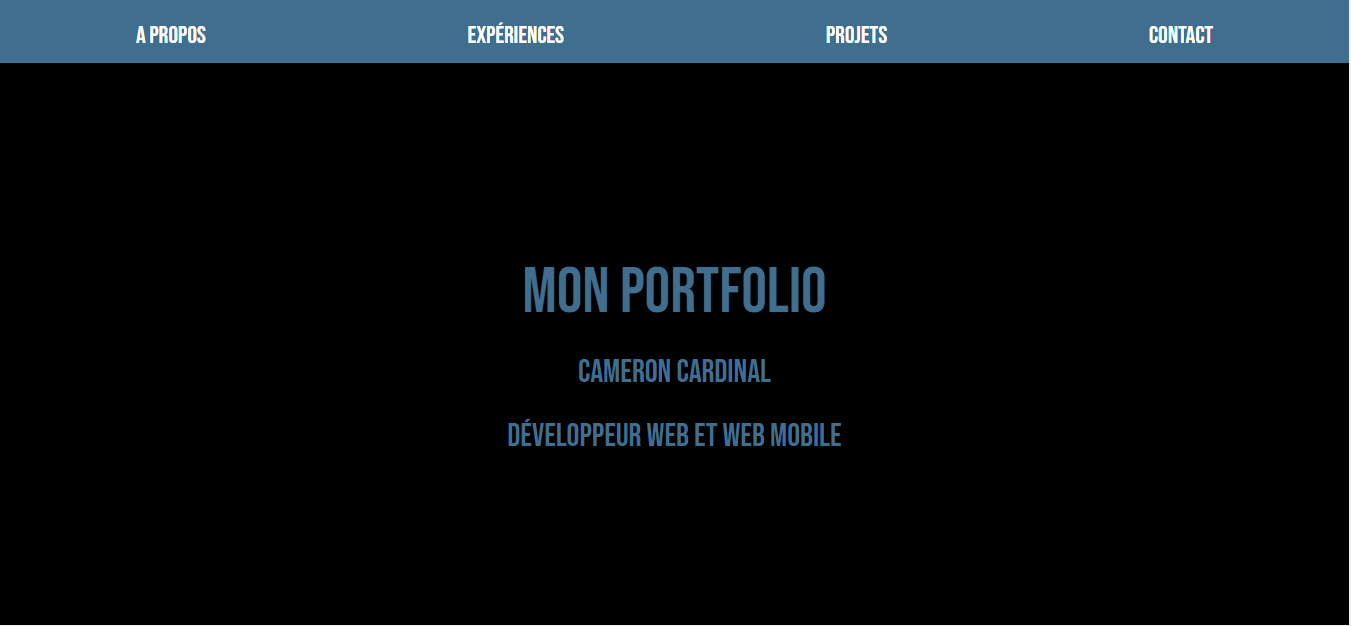
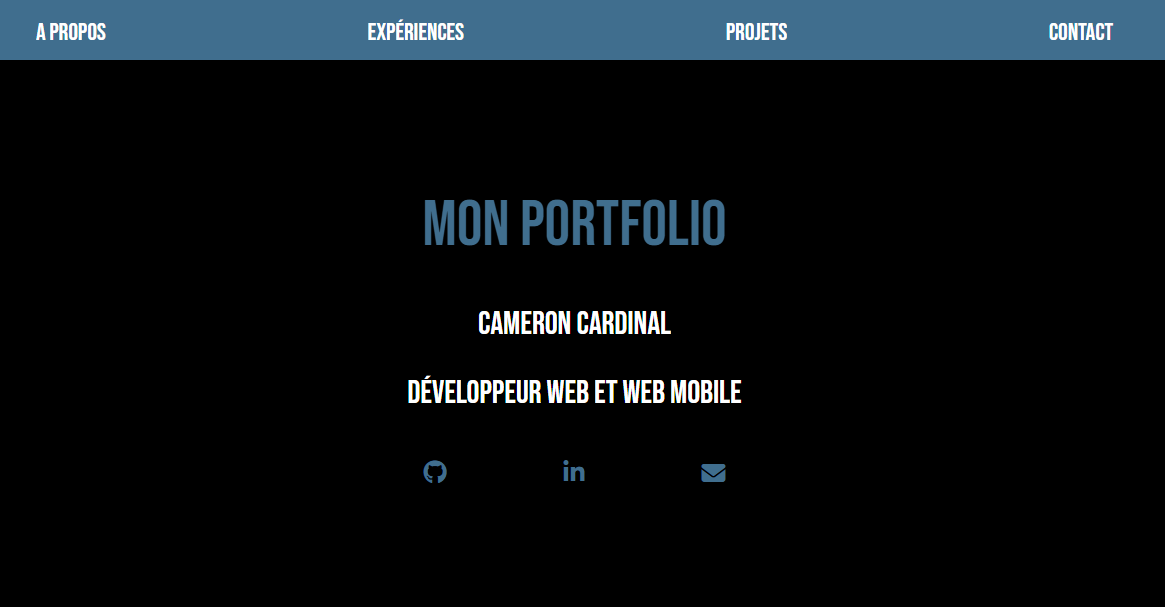
changes

diff --git a/style.css b/style.css
@@ -260,8 +260,10 @@ hr {
 
 img {
   height: 175px;
+  width: 350px;
   display: block;
   margin-bottom: 15px;
+  border: solid white;
 }
 
 #projet1,

diff --git a/index.php b/index.php
@@ -47,7 +47,7 @@
             <h2 style="color: white;">Développeur web et web mobile</h2>
             <div id="reseaux">
                 <a target="_blank" href="https://github.com/fledgless"><i class="fa-brands fa-github fa-xl" style="color: #406e8e;"></i></a>
-                <i class="fa-brands fa-linkedin-in fa-xl" style="color: #406e8e;"></i>
+                <a target="_blank" href="https://www.linkedin.com/in/cameron-cardinal-a4158b231/"><i class="fa-brands fa-linkedin-in fa-xl" style="color: #406e8e;"></i></a>
                 <i class="fa-solid fa-envelope fa-xl" style="color: #406e8e;"></i>
             </div>
         </section>
